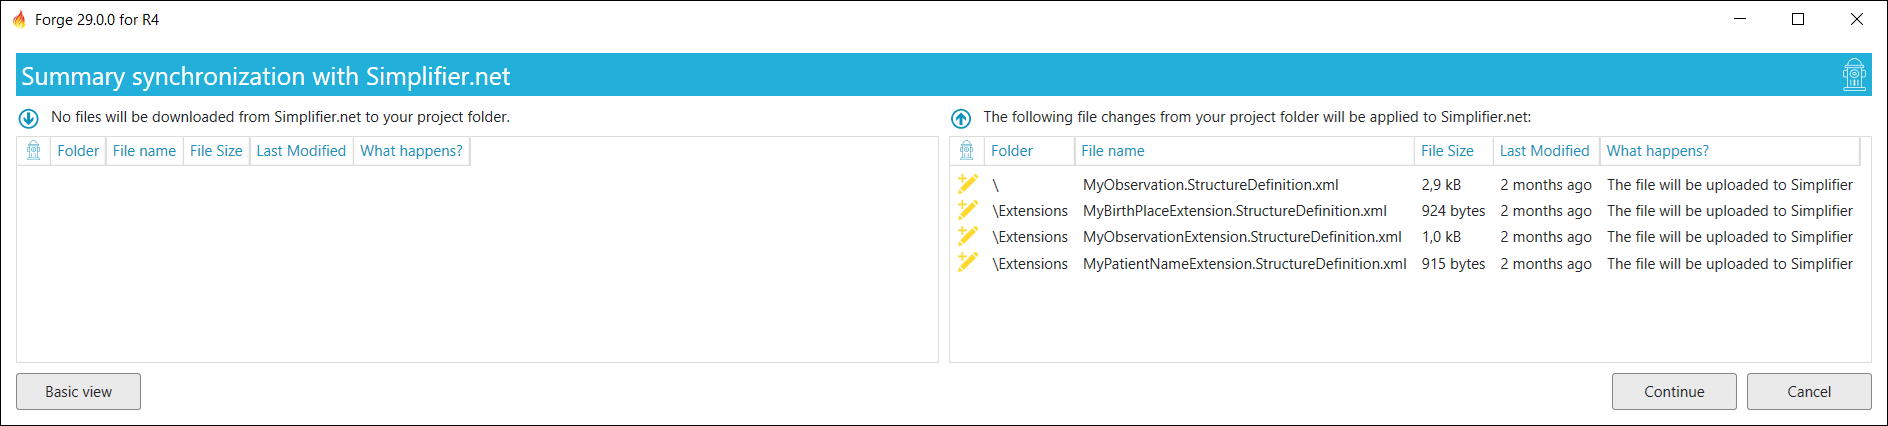
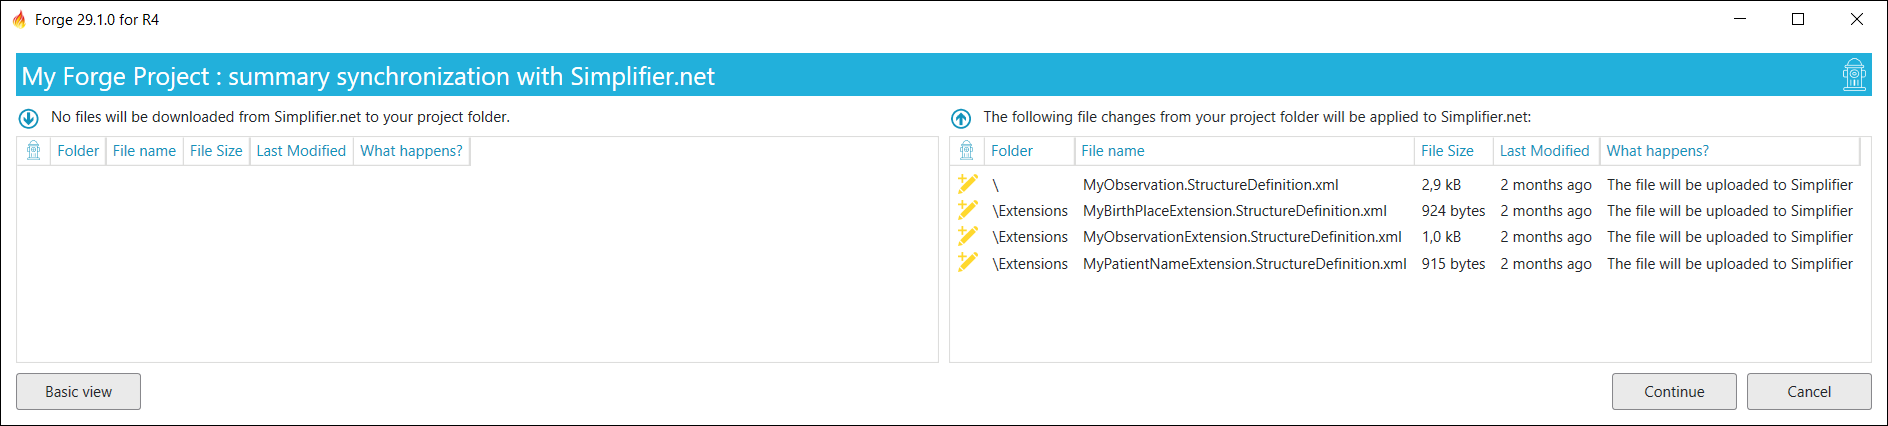
Updated release notes, simplifier page and images.

Changed region(s): [[0.0, 0.1526, 0.375, 0.2136], [0.0312, 0.0305, 0.0625, 0.061]]

diff --git a/features/IntegrationwithSimplifier.md b/features/IntegrationwithSimplifier.md
@@ -3,18 +3,15 @@
 [Simplifier.net](https://simplifier.net/) is a FHIR specification development, collaboration and publishing platform. 
 The documentation for the platform can be found [here](https://docs.fire.ly/projects/Simplifier/).
 
-Forge can synchronize the project files in your local folder with the files in your project on Simplifier. The following menu and toolbar options have been added:
+Forge can synchronize the project files in your local folder with the files in your project on Simplifier. The following menu options are available:
 
-* ![Create a FHIR Project on Simplifier](../images/SyncIconCreate.png)
-Create a FHIR Project on Simplifier
-* ![Open a FHIR Project from Simplifier](../images/SyncIconOpen.png)
-Open a FHIR Project from Simplifier / Link to a FHIR Project on Simplifier
-* ![Synchronize a FHIR Project with Simplifier](../images/SyncIconSync.png)
-Synchronize a FHIR Project with Simplifier
+![Simplifier menu](../images/SimplifierMenu.png)
+
+Some options are also available in the start and session panels and in the project toolbar.
 
 ![Start panel](../images/SyncStartPanel.png)
 
-The `Project` tab contains a new toolbar with additional Simplifier options.
+The `Project` tab contains a toolbar with additional Simplifier options.
 
 ![Project tab](../images/SyncProjectToolbar.png)
 
@@ -25,9 +22,8 @@ The following paragraphs describe the options in more detail.
 When starting a new project, you first have to create a project on Simplifier.
 At the moment you can only do that via the Simplifier website. In Forge you can browse
 to the Simplifier **Create project** page using one of the following options:
+* Click `Create FHIR Project...` in the Simplifier menu:
 * Click `Create FHIR Project on Simplifier.net...` in one of the following places:
-
-  - File menu
   - Start panel  
   - Session panel  
 * Click `Create...` in the Simplifier toolbar in the Project tab.
@@ -38,9 +34,11 @@ Enter you project details on Simplifier and click `Create`.
 
 ## Open a FHIR Project from Simplifer
 
-* Click `Open FHIR Project from Simplifier.net...` in one of the following places:
+If you don't have a local project folder yet then you can open a project on Simplifier
+to download all project files to a FHIR project folder on your computer.
 
-  - File menu
+* Click `Open FHIR Project...` in the Simplifier menu:
+* Click `Open FHIR Project from Simplifier.net...` in one of the following places:
   - Start panel
   - Session panel
 
@@ -96,11 +94,13 @@ Files in your project folder that do not exist on Simplifier will be deleted.
 
 Click `Advanced view` to show a list of all conflicting file changes. 
 When you have selected the option  
-`Let me choose which files to keep` you have 2 choices for each listed file conflict:
+`Let me choose which files to keep` you have two choices for each listed file conflict:
 - **Select the file change from your project folder:**  
 The file from your local project folder will be taken. The file will be uploaded to Simplifier the next time you synchronize.
 - **Select the file change from Simplfier:**  
 The file from Simplifier is downloaded and replaces the file in your project folder.
+
+Note that you can select multiple items to apply your choice with one click.
 
 ![Advanced optionsSimplifier](../images/SyncConnectOptionsAdvanced.png)
 
@@ -110,7 +110,8 @@ download the relevant project files from Simplifier.
 ## Link to FHIR Project on Simplifer
 
 If you have opened a project folder but you have not yet setup a link with an existing 
-Simplifier project, you can do so by clicking `Link` in the Simplifier toolbar.
+Simplifier project, you can do so by clicking `Link...` in the Simplifier toolbar or 
+selecting `Link to FHIR Project...` from the Simplifier menu.
 
 ![Linking to project on Simplifier](../images/SyncLinking.png)
 
@@ -139,8 +140,7 @@ synchronizing with Simplifier even though Forge does not list them.
 
 By clicking the `Synchronize...` button Forge will first download updated files from Simplifier 
 and then upload updated files from your folder to Simplifier. You can also download or upload 
-separately by clicking the drop-down arrow and clicking the desired option. The `Remove link...` button
-allows you to remove the link between your project folder and Simplfiier. The `Open...` button 
+separately by clicking the drop-down arrow and clicking the desired option. The `Open...` button 
 opens a browser to your project on Simplifier.
 
 ![Simplifier synchronize options](../images/SyncToolbarDropdown.png)
@@ -168,7 +168,7 @@ synchronized.
 ![Summary conflicts Basic view](../images/SyncConflictsBasicView.png)
 
 To resolve conflicts you have to switch to the Advanced view by clicking `Advanced view`.
-For each listed file conflict you have 3 choices:
+For each listed file conflict you have three choices:
 - **Select the file change from your project folder:**  
 The file from your local project folder will be uploaded to Simplifier and replaces the file on Simplifier.
 - **Select the file change from Simplfier:**  
@@ -176,5 +176,14 @@ The file from Simplifier is downloaded and replaces the file in your project fol
 - **Leave unresolved:**  
 The conflict remains unresolved therefore no file upload or download will take place.
 
+Note that you can select multiple items to apply your choice with one click.
+
 ![Summary conflicts Advanced view](../images/SyncConflictsAdvancedView.png)
+
+## Miscellaneous options
+
+The `Repair link...` button allows you to repair the link between your project folder and Simplfiier when 
+somebody has changed the url key for the project on Simplifier.net. 
+
+The `Remove link...` button allows you to remove the link between your project folder and Simplfiier. 
 

diff --git a/ReleaseNotes.rst b/ReleaseNotes.rst
@@ -12,22 +12,29 @@ Release 29.1
 Changes
 ^^^^^^^
 * Upgrade to Firely .NET SDK 4.1.0.
+* Added **Simplifier** menu and **Repair link...** option.
 * Added a **File format settings** menu option for specifying the indent size used in Xml and Json files.
 * The **Create a new StructureDefinition** dialog now checks for an already existing canonical url and/or file name in your project.
-* You can now run Forge when your internet connection is down.
+* You can now run Forge when your internet connection is down (requires a previously successful login).
 * The **Resolve resources from subdirectories** option is now turned on by default.
+* When Forge corrects the differential of your profile after opening it, Forge now reports what has changed in more detail.
+* Multiple selection is now available when resolving file change conflicts in the Simplifier link and synchronize dialogs.
 
 Bug fixes
 ^^^^^^^^^
 * User settings were not retained when updating to a new version of Forge.
 * The **Save As...** option now works as expected (the document properties are updated to the new file name).
+* Quality Control no longer unjustifiably reports *Internal logic failure* messages.
 * When selecting the **Extension** type in the **Select Extension Context** dialog, the element tree was not rendered correctly.
 * Slice naming checks were incorrectly applied to element names for logical models.
 * When the source of an element constraint is empty it is no longer initialized to the canonical url of profile itself when it is opened in Forge.
 * Forge now suggests **extension.value** for *slicing.discriminator.path* instead of **extension.value[x]**.
+* Fixed invalid slice path when creating slices on a choice type element.
+* Fixed creating duplicate slices when loading a profile with slices that have an invalid path.
 * When linking a project folder to a project on Simplifier, double clicking a disabled item would still allow you to continue.
 * The project list view was not updated correctly after installing a package in an empty project folder.
 * Columns of list views can no longer be collapsed completely.
+* Fixed Forge not starting because it was repeatedly trying to install .NET6 and failing.
 * Fixed various minor UI styling issues.
 * **[R4B-R5]** Added support for opening files with an unknown FHIR version. The unknown FHIR version must be a variant of a known published FHIR versions (e.g. "4.3.0-unknown" or "4.3.0"). The version in the resource is updated to the latest version known by Forge.
 
